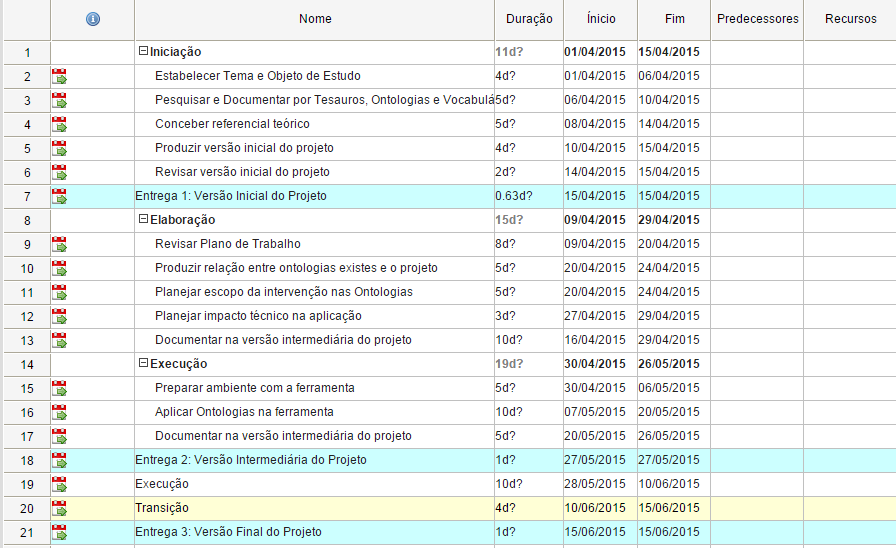
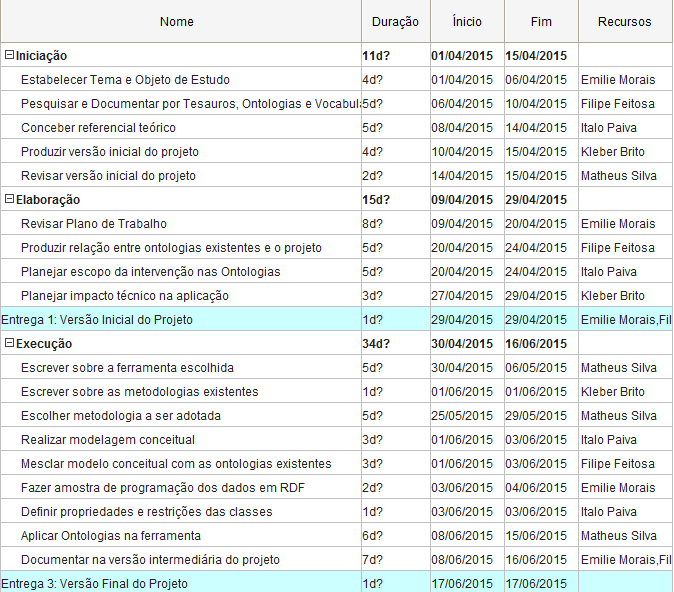
Applying adjustments

diff --git a/editaveis/capitulos/penaestrada.tex b/editaveis/capitulos/penaestrada.tex
@@ -27,27 +27,5 @@ utilizado na aplicação pode ser visto na Figura \ref{fig:modelo_penaestrada}.
  \label{fig:modelo_penaestrada}
 \end{figure}
 
-  \section{Mudanças no \textit{Software}}
+  \input{editaveis/capitulos/planejamentoDaAplicacao}
   
-    Atualmente, o “Pé na estrada” disponibiliza informações apenas sobre os locais dos
-    acidentes, e a quantidade de acidentes em cada rodovia. Esse tipo de informação seria mais
-    relevante se acompanhassem informações acerca dos tipos de acidentes, danos causados a
-    rodovia, tipo de veículo, envolvidos, entre outros dados que fossem relevantes para análise
-    estatística e para representação gráfica.
-
-    Dessa forma, com o modelo de dados estruturado semanticamente, esses dados seriam
-    encontrados e relacionados facilmente, possibilitando ao software disponibilizar essas
-    informações ao usuário, até mesmo de forma mais visual.
-
-    Atualmente, o software não possui nenhuma camada semântica presente, possuindo
-    apenas a camada visual do HTML, sendo necessária toda a estruturação das três principais
-    camadas semânticas: o XML, o RDFS e a OWL, sendo esta última necessária para o uso da
-    ontologia que será criada para representar os acidentes de trânsito.
-
-    Mudanças na estrutura do banco de dados utilizado também serão necessárias para
-    comportar os novos tipos de dados que irão surgir. Como o software não possui as
-    funcionalidades inerentes a outros tipos de dados sobre acidentes (como tipo do acidente, tipo
-    de veículo, envolvidos, etc.), estas terão que ser criadas, impactando significativamente na
-    estrutura do código e, talvez, da aplicação em si.
-    
-    

diff --git a/editaveis/capitulos/planejamentoDaAplicacao.tex b/editaveis/capitulos/planejamentoDaAplicacao.tex
@@ -1,0 +1,27 @@
+\subsection{Planejamento da aplicação da ontologia no ``Pé na Estrada''}
+
+Atualmente, o “Pé na estrada” disponibiliza informações apenas sobre os locais dos
+acidentes, e a quantidade de acidentes em cada rodovia. Esse tipo de informação seria mais
+relevante se acompanhassem informações acerca dos tipos de acidentes, danos causados a
+rodovia, tipo de veículo, envolvidos, entre outros dados que fossem relevantes para análise
+estatística e para representação gráfica.
+
+Dessa forma, com o modelo de dados estruturado semanticamente, esses dados seriam
+encontrados e relacionados facilmente, possibilitando ao software disponibilizar essas
+informações ao usuário, até mesmo de forma mais visual.
+
+Atualmente, o software não possui nenhuma camada semântica presente, possuindo
+apenas a camada visual do HTML, sendo necessária toda a estruturação das três principais
+camadas semânticas: o XML, o RDFS e a OWL, sendo esta última necessária para o uso da
+ontologia que será criada para representar os acidentes de trânsito.
+
+O software ``Pé na Estrada'' foi desenvolvido na linguagem \textit{Ruby} com a utilização do \textit{framework Rails}. 
+A partir disso, o sistema funciona com a arquitetura da Figura \ref{fig:arquitetura}
+
+\begin{figure}[!htb]
+ \centering
+ \includegraphics[scale = 0.7]{figuras/arquiteturarails.png}
+ \caption{Arquitetura do sistema}
+ \label{fig:arquitetura}
+
+\end{figure}

diff --git a/editaveis/capitulos/metodologia.tex b/editaveis/capitulos/metodologia.tex
@@ -5,9 +5,9 @@ Figura \ref{fig:metodologia}.
 
 \graphicspath{{figuras/}}
 
-\begin{figure}[!htb]
+\begin{figure}[!h]
  \centering
- \includegraphics[scale = 0.5]{metodologia}
+ \includegraphics[scale = 0.75]{metodologia}
  \caption{Etapas do trabalho}
  \label{fig:metodologia}
 
@@ -30,8 +30,11 @@ língua inglesa, para obtenção de um resultado mais abrangente.
 \textit{Análise de dados}: essa etapa consiste na leitura dos artigos e verificação das
 ontologias encontradas para garantir que estejam alinhadas aos objetivos.
 
-\textit{Construção de Ontologias}: essa etapa consiste na construção de uma ontologia de
-acidentes para o contexto do trabalho, baseada em ontologias existentes.
+\textit{Estruturação da Ontologia}: essa etapa consiste na elaboração de um modelo conceitual
+referente a ontologia.
 
-\textit{Elaboração do Modelo de Dados}: essa etapa consiste na elaboração do modelo de
-dados estruturado semanticamente com base na ontologia construída.
+\textit{Construção de Ontologias}: essa etapa consiste na construção de uma ontologia de
+acidentes para o contexto do trabalho, baseada em ontologias existentes e na estruturação realizada.
+
+\textit{Planejamento da aplicação da Ontologia no Software}: essa etapa consiste na elaboração de um Planejamento
+de como a ontologia completa será finalizada e integrada ao ``Pé na Estrada''

diff --git a/editaveis/capitulos/cronograma.tex b/editaveis/capitulos/cronograma.tex
@@ -6,7 +6,7 @@ O Cronograma do Projeto pode ser visto na Figura \ref{fig:cronograma}.
 
 \begin{figure}[!htb]
  \centering
- \includegraphics[scale = 0.5]{cronograma}
+ \includegraphics[scale = 0.7]{cronograma}
  \caption{Cronograma do Projeto}
  \label{fig:cronograma}
 \end{figure}

diff --git a/editaveis/capitulos/justificativa.tex b/editaveis/capitulos/justificativa.tex
@@ -1,4 +1,4 @@
-\chapter[Justificativa]{Justificativa}
+\section[Justificativa]{Justificativa}
 
 De acordo com o planejamento estratégico da PRF (\citeyear{prf13}), deseja-se aprimorar a
 percepção de segurança dos usuários das rodovias federais e o registro de ocorrências.

diff --git a/semantica.tex b/semantica.tex
@@ -27,7 +27,6 @@
 \input{editaveis/capitulos/penaestrada}
 \input{editaveis/capitulos/ontologias_acidentes}
 
-
 \bookmarksetup{startatroot}
 
 \postextual
